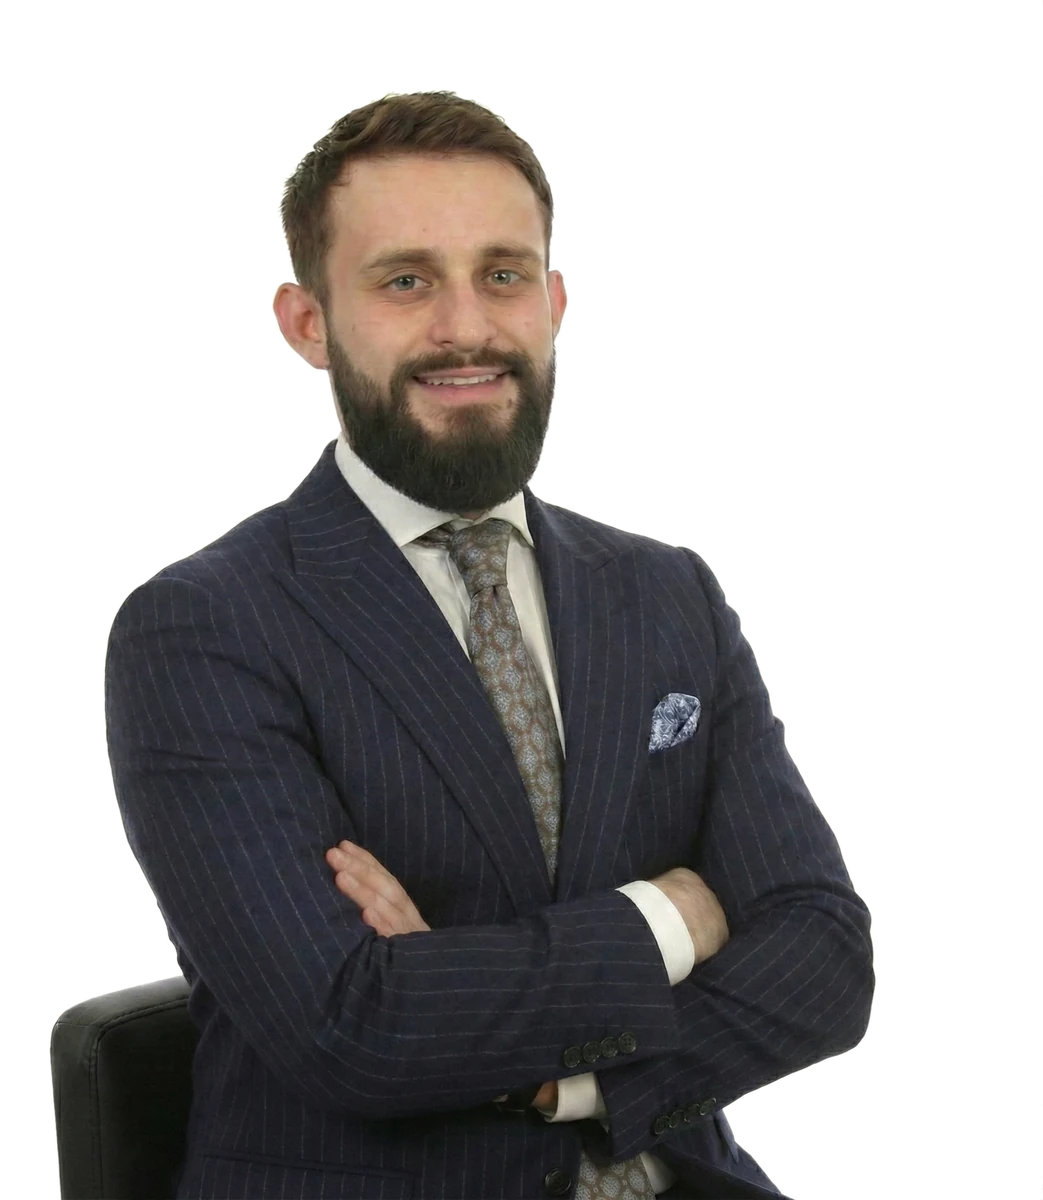
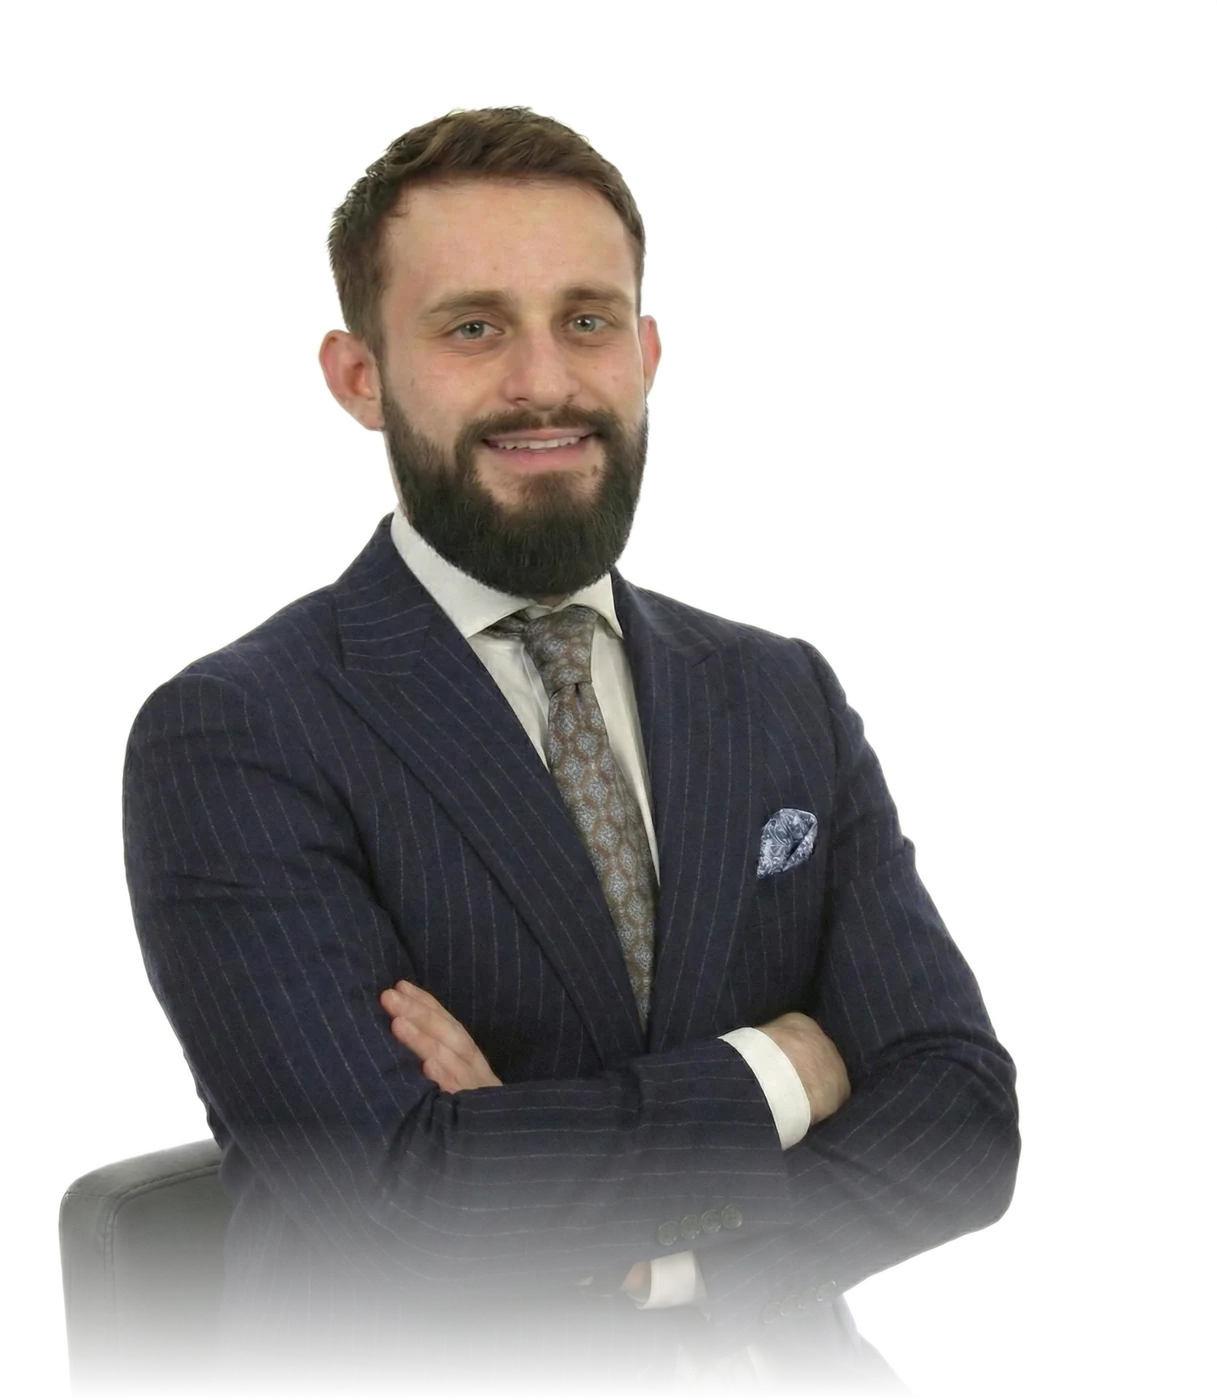
Header: fade only the frame, not the content; drop the founder photo's card
- Misread the previous ask: fading the whole header made the logo and
  Kontakt button unreachable at the top too. What was actually wanted
  is the content always visible/clickable, with only the glass *frame*
  behind it blended into the page until you scroll. Split the frame
  into its own absolutely-positioned backing layer (its own opacity,
  driven by scroll) so the nav content sits on top always at full
  opacity.
- Founder photo: the card-paper tile (bordered, rounded, aspect-square
  crop) was the "frame" that needed to go, not necessarily the cutout
  itself -- swapped for a frameless floating image with a drop shadow,
  natural aspect ratio, no border. Also refined the cutout: smoother
  edge feather, and a soft alpha fade over the bottom ~20% of the
  photo, which both reads as an intentional "floating portrait" fade
  and quietly de-emphasizes the visible edge of the chair instead of
  requiring a hard crop that would've cut into the crossed arms.

Changed region(s): [[0.0307, 0.8017, 0.8591, 1.0]]

diff --git a/components/Header.tsx b/components/Header.tsx
@@ -21,14 +21,12 @@ export function Header({
   const [menuOpen, setMenuOpen] = useState(false);
   const { scrollY } = useScroll();
   const collapseProgress = useTransform(scrollY, [0, 160], [0, 1]);
-  // Blended into the page at the very top (invisible, not just borderless)
-  // and fades in fast as soon as you start scrolling — the hero already has
-  // its own CTAs, so the header doesn't need to be reachable before then.
-  // Forced visible while the menu is open so it can't fade out mid-interaction.
-  const headerOpacity = useTransform(scrollY, [0, 60], [0, 1]);
-  const headerPointerEvents = useTransform(headerOpacity, (v) =>
-    v < 0.05 ? "none" : "auto"
-  );
+  // Only the glass *frame* behind the nav is blended into the page at the
+  // very top — logo, hamburger and Kontakt stay fully visible/clickable the
+  // whole time. The frame fades in fast as soon as you start scrolling.
+  // Forced visible while the menu is open so its own backing panel can't
+  // fade out mid-interaction.
+  const frameOpacity = useTransform(scrollY, [0, 60], [0, 1]);
 
   const links = [
     { href: "#vision", label: nav.vision },
@@ -43,14 +41,18 @@ export function Header({
 
   return (
     <motion.header
-      style={{
-        opacity: menuOpen ? 1 : headerOpacity,
-        pointerEvents: menuOpen ? "auto" : headerPointerEvents,
-      }}
+      initial={{ y: -80 }}
+      animate={{ y: 0 }}
+      transition={{ duration: 0.8, ease }}
       className="fixed inset-x-0 top-0 z-50 flex justify-center px-4 pt-4"
     >
       <div className="w-full max-w-6xl">
-        <nav className="glass flex w-full items-center justify-between rounded-full px-5 py-2.5">
+        <nav className="relative flex w-full items-center justify-between rounded-full px-5 py-2.5">
+          <motion.div
+            aria-hidden
+            style={{ opacity: menuOpen ? 1 : frameOpacity }}
+            className="glass pointer-events-none absolute inset-0 -z-10 rounded-full"
+          />
           <Logo lang={lang} progress={collapseProgress} />
 
           <div className="relative flex items-center gap-2">

diff --git a/components/Founder.tsx b/components/Founder.tsx
@@ -9,11 +9,13 @@ export function Founder({ dict }: { dict: Dictionary["founder"] }) {
     <section id="founder" className="relative px-6 py-32 md:py-40">
       <div className="mx-auto grid max-w-6xl items-center gap-12 md:grid-cols-[0.9fr_1.1fr]">
         <Reveal>
-          <div className="card-paper relative mx-auto aspect-square w-full max-w-sm overflow-hidden rounded-[2rem]">
+          {/* No card/frame — the cutout is meant to float directly on the
+              page, not sit boxed inside a bordered tile. */}
+          <div className="relative mx-auto w-full max-w-sm">
             <img
               src="/founder.webp"
               alt={dict.name}
-              className="h-full w-full object-cover object-top"
+              className="w-full h-auto drop-shadow-[0_30px_50px_rgba(0,0,0,0.35)]"
             />
           </div>
         </Reveal>